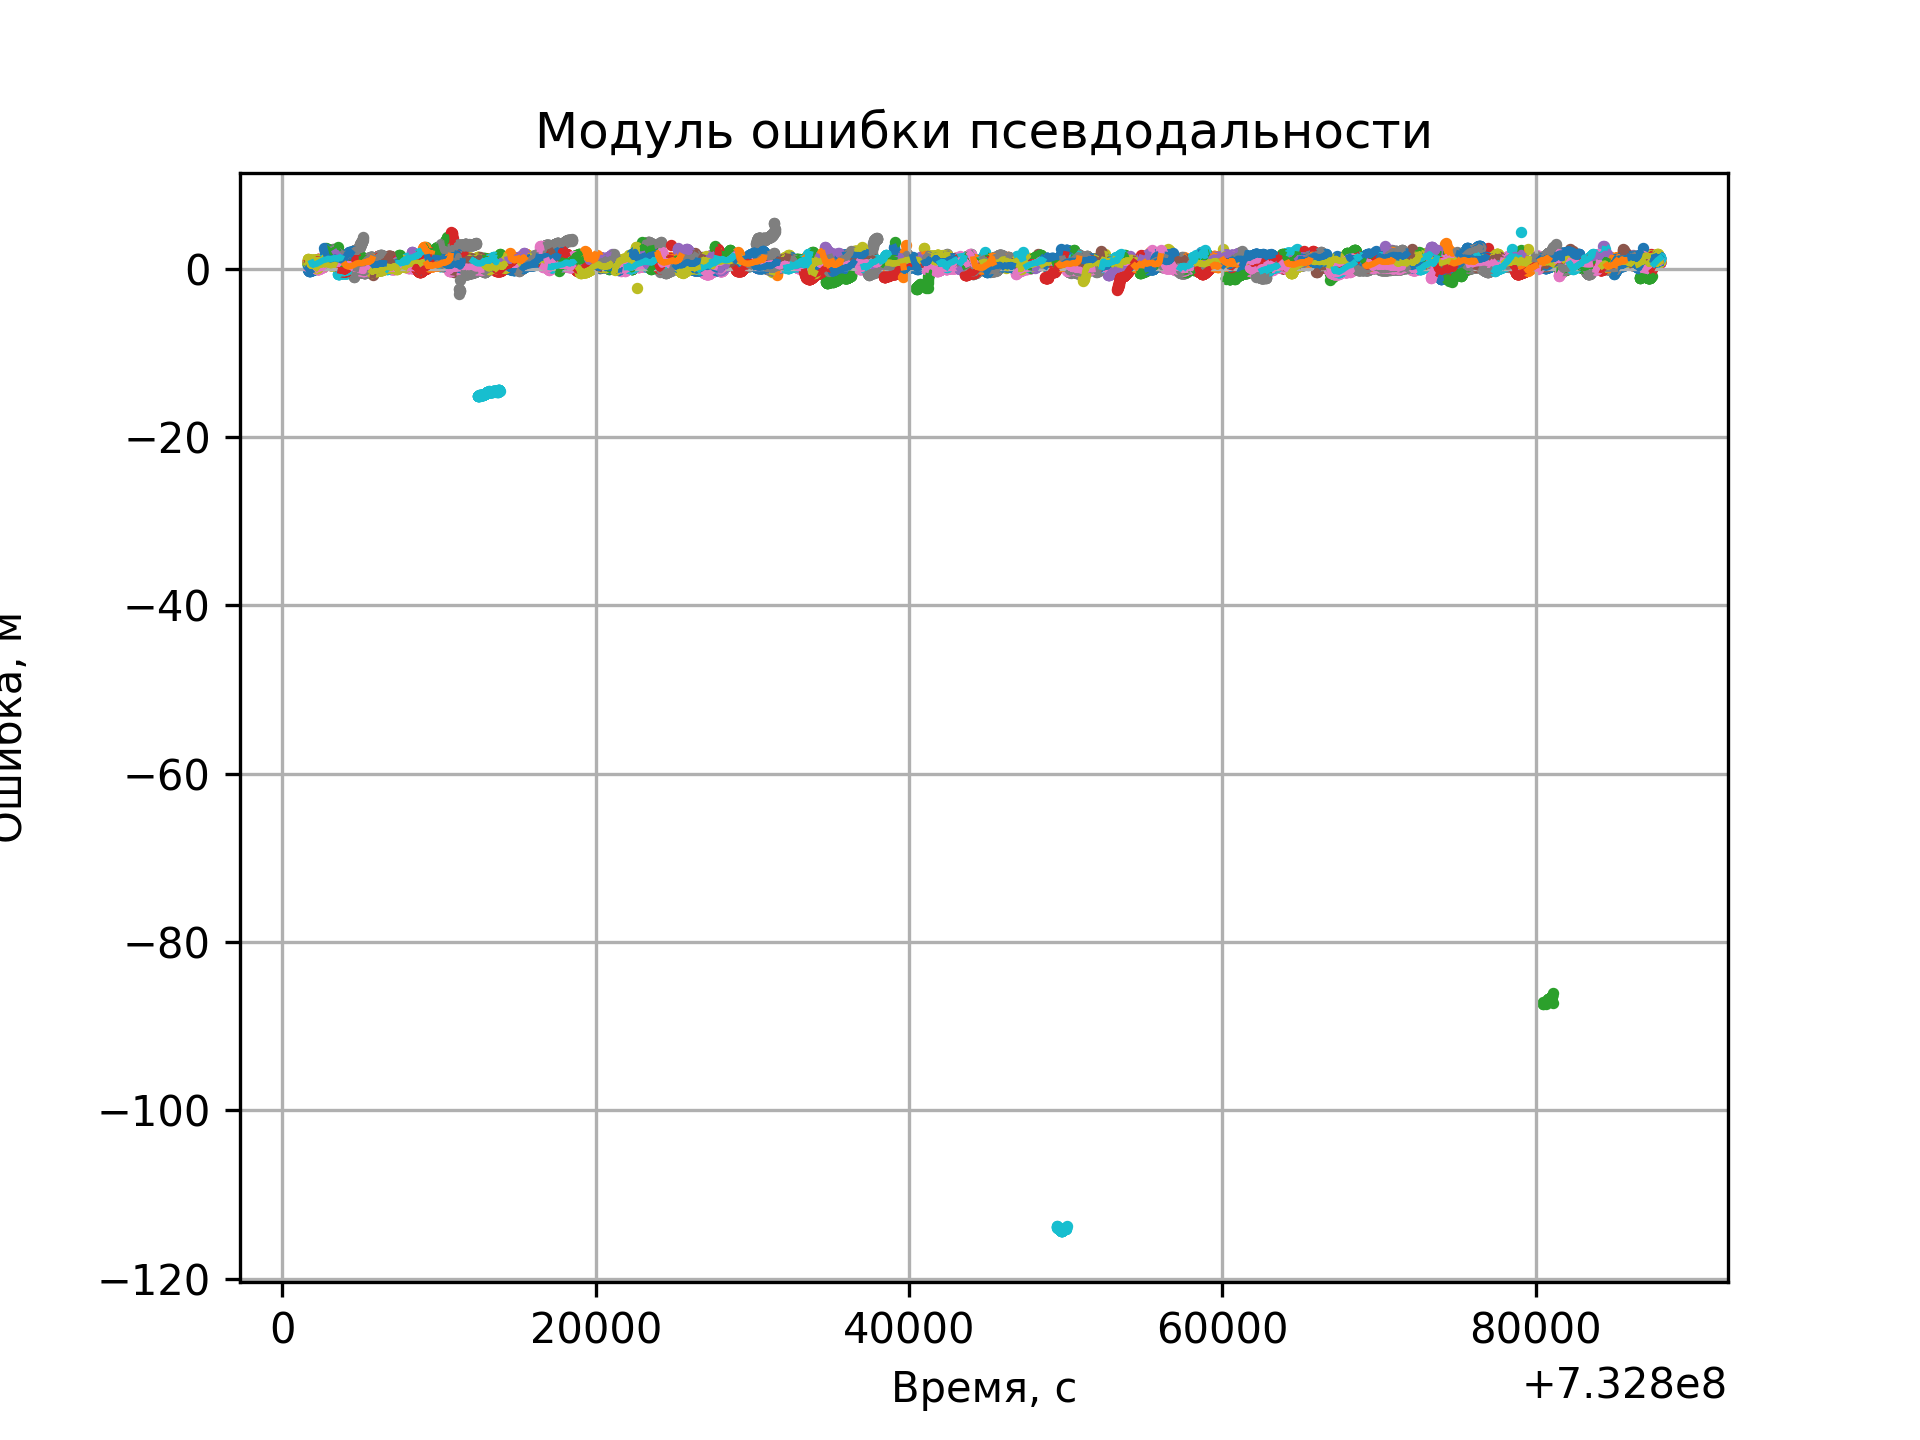
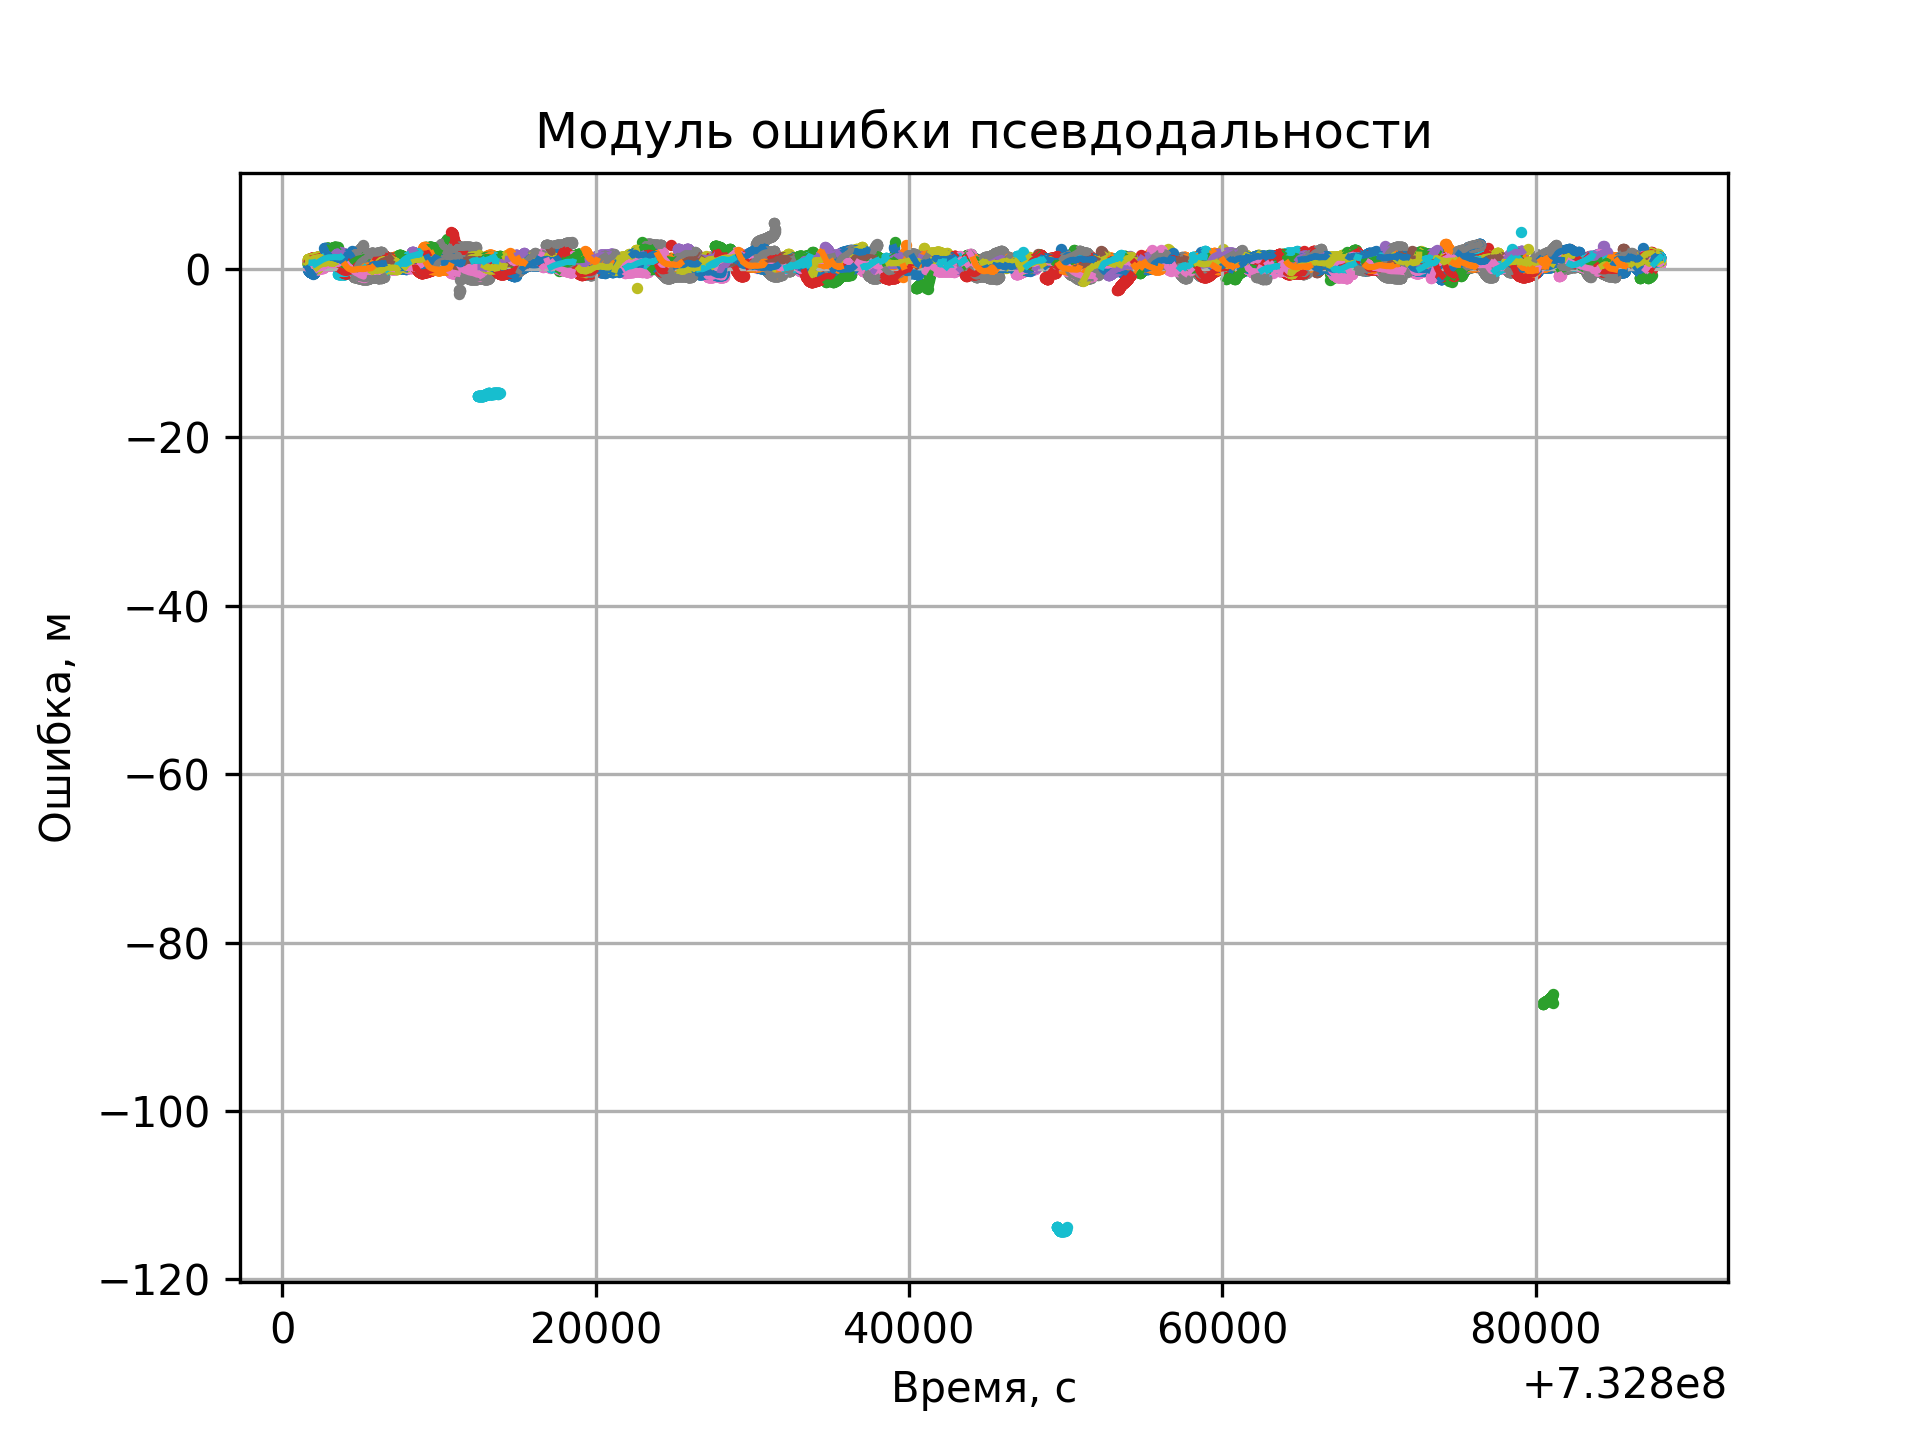
pre-rel

Changed region(s): [[0.1562, 0.1562, 0.875, 0.2188], [0.0, 0.4062, 0.0312, 0.5938]]

diff --git a/src/Plotter.cpp b/src/Plotter.cpp
@@ -1,7 +1,7 @@
 #include "Plotter.hpp"
 
-Plotter::Plotter(const SatNav& sn) : problem(sn), problem_copy(sn) {
-    problem.solve();
+Plotter::Plotter(const SatNav& sn, unsigned ti, unsigned tf) : problem(sn), problem_copy(sn), ti(ti), tf(tf) {
+    problem.solve('0', ti, tf);
 }
 
 void Plotter::plot_errors_norm(double ymin, double ymax) {
@@ -63,7 +63,7 @@ void Plotter::plot_errors_pr(double ymin, double ymax) {
 }
 
 void Plotter::plot_errors_by_type(char error_type, double ymin, double ymax) {
-    problem_copy.solve('I');
+    problem_copy.solve('I', ti, tf);
 
     std::string filename = "errors-" + error_names[error_type];
     std::ofstream file;
@@ -89,14 +89,42 @@ void Plotter::plot_errors_by_type(char error_type, double ymin, double ymax) {
     run_py_plotter(filename);
 }
 
-void Plotter::plot_map_iono() {
-    problem_copy.solve('I');
+void Plotter::plot_map_norm(const std::string& mode, double threshold) {
+    problem_copy.solve('I', ti, tf);
+
+    std::string filename = "map-norm";
+    std::ofstream file;
+    file.open("../results/" + filename + ".csv", std::fstream::out);
+
+    file << "Ошибка модуля решения" << '\t' << mode << std::endl;
+    file << threshold << std::endl;
+    
+    for (const auto& ss : problem.get_solution_states()) {
+        if (!ss.is_solved) continue;
+
+        unsigned time = ss.time;
+        State ts = problem.get_true_state_at(time);
+
+        std::vector<double> geo_coords = ECEF_to_geographycal(ss.position);
+        double error_norm = log(abs(ss.position - ts.position));
+
+        file << geo_coords[0] << sep << geo_coords[1] << sep << error_norm << std::endl;
+    }
+
+    file.close();
+
+    run_py_mapper(filename);
+}
+
+void Plotter::plot_map_iono(const std::string& mode, double threshold) {
+    problem_copy.solve('I', ti, tf);
 
     std::string filename = "map-iono";
     std::ofstream file;
     file.open("../results/" + filename + ".csv", std::fstream::out);
 
-    file << "Ионосферная ошибка" << std::endl;
+    file << "Ионосферная ошибка" << '\t' << mode << std::endl;
+    file << threshold << std::endl;
     
     for (const auto& ss : problem.get_solution_states()) {
         if (!ss.is_solved) continue;
@@ -113,7 +141,7 @@ void Plotter::plot_map_iono() {
 
     file.close();
 
-    // run_py_plotter(filename);
+    run_py_mapper(filename);
 }
 
 void Plotter::run_py_plotter(const std::string& arg) const {
@@ -121,8 +149,8 @@ void Plotter::run_py_plotter(const std::string& arg) const {
     system(command.c_str());
 }
 
-void Plotter::run_py_map_plotter(const std::string& arg) const {
-    std::string command = "python3 ../scripts/map-plotter.py " + arg;
+void Plotter::run_py_mapper(const std::string& arg) const {
+    std::string command = "python3 ../scripts/mapper.py " + arg;
     system(command.c_str());
 }
 
@@ -134,8 +162,8 @@ std::vector<double> Plotter::ECEF_to_geographycal(const std::vector<double>& pos
     double z = position[2];
     double r = sqrt(x * x + y * y + z * z);
 
-    latitude = asin(z / r) * 180.0 * M_1_PI;
     longitude = atan2(x, y) * 180.0 * M_1_PI;
+    latitude = asin(z / r) * 180.0 * M_1_PI;
 
-    return {latitude, longitude};  
+    return {longitude, latitude};  
 }

diff --git a/src/Plotter.hpp b/src/Plotter.hpp
@@ -11,16 +11,17 @@
 
 class Plotter {
 public:
-    Plotter(const SatNav& sn);
+    Plotter(const SatNav& sn, unsigned ti = 0, unsigned tf = 0);
     void plot_errors_norm(double ymin = 0, double ymax = 0);
     void plot_errors_pr(double ymin = 0, double ymax = 0);
     void plot_errors_by_type(char error_type, double ymin = 0, double ymax = 0);
 
-    void plot_map_iono();
+    void plot_map_norm(const std::string& mode, double threshold = 0);
+    void plot_map_iono(const std::string& mode, double threshold = 0);
 
 private:
     void run_py_plotter(const std::string& arg) const;
-    void run_py_map_plotter(const std::string& arg) const;
+    void run_py_mapper(const std::string& arg) const;
 
     std::vector<double> ECEF_to_geographycal(const std::vector<double>& position); // сделать отдельную структура гео координат
 
@@ -28,6 +29,8 @@ private:
     SatNav problem_copy;
 
     char sep = ',';
+    
+    unsigned ti, tf;
 
     std::map<char, std::string> error_names = {
         {'F', "fading"},

diff --git a/scripts/mapper.py b/scripts/mapper.py
@@ -1,0 +1,34 @@
+import sys
+import pandas as pd
+import matplotlib.pyplot as plt
+from mpl_toolkits.basemap import Basemap
+
+args = sys.argv
+
+data_path = f'../results/{args[1]}.csv'
+
+with open(data_path) as header:
+    title, mode = header.readline().rstrip().split('\t')
+    threshold = float(header.readline().rstrip())
+
+plot_path = f'../plots/{args[1]}-{mode}.png'
+
+data = pd.read_csv(data_path, skiprows=2)
+
+plt.figure(figsize=(7.5, 4))
+
+m = Basemap(projection='cyl', resolution='c')
+m.fillcontinents(color='gray',lake_color='white')
+m.drawparallels(range(-90, 91, 30))
+m.drawmeridians(range(-180, 181, 60))
+
+if mode == 'full':
+    plt.scatter(data.iloc[:, 0], data.iloc[:, 1], c=data.iloc[:, 2], s=3)
+    plt.colorbar()
+elif mode == 'threshold':
+    mask = data.iloc[:, 2] > threshold
+    plt.scatter(data[mask].iloc[:, 0], data[mask].iloc[:, 1], s=3)
+
+plt.title(f'{title} > { threshold} м' if mode == 'threshold' else title)
+
+plt.savefig(plot_path, dpi=300)

diff --git a/scripts/plotter.py b/scripts/plotter.py
@@ -8,8 +8,8 @@ data_path = f'../results/{args[1]}.csv'
 plot_path = f'../plots/{args[1]}.png'
 
 with open(data_path) as header:
-    title, x_label, y_label = header.readline().split('\t')
-    y_min, y_max = map(float, header.readline().split('\t'))
+    title, x_label, y_label = header.readline().rstrip().split('\t')
+    y_min, y_max = map(float, header.readline().rstrip().split('\t'))
 
 data = pd.read_csv(data_path, skiprows=2)
 

diff --git a/src/main.cpp b/src/main.cpp
@@ -11,9 +11,8 @@ int main() {
     // GPSHandler handler = GPSHandler("brdc0940.24n"); SatNav problem = SatNav("GNV1B_2024-04-03_C_04.txt", "GPS1B_2024-04-03_C_04.txt", handler);
 
     Plotter plotter(problem);
-    plotter.plot_errors_norm(0, 30);
+    plotter.plot_errors_norm(0, 10);
     plotter.plot_errors_pr();
-    plotter.plot_map_iono();
 
     return 0;
 }

diff --git a/src/SatNav.hpp b/src/SatNav.hpp
@@ -54,7 +54,7 @@ private:
     double mask_angle = 5;
     unsigned fadeout_time = 20;
     double SNR_threshold = 30;
-    double hatch_constant = 0.1;
+    double hatch_constant = 1.0 / 30.0;
 
     char error_type = '0';
 };
